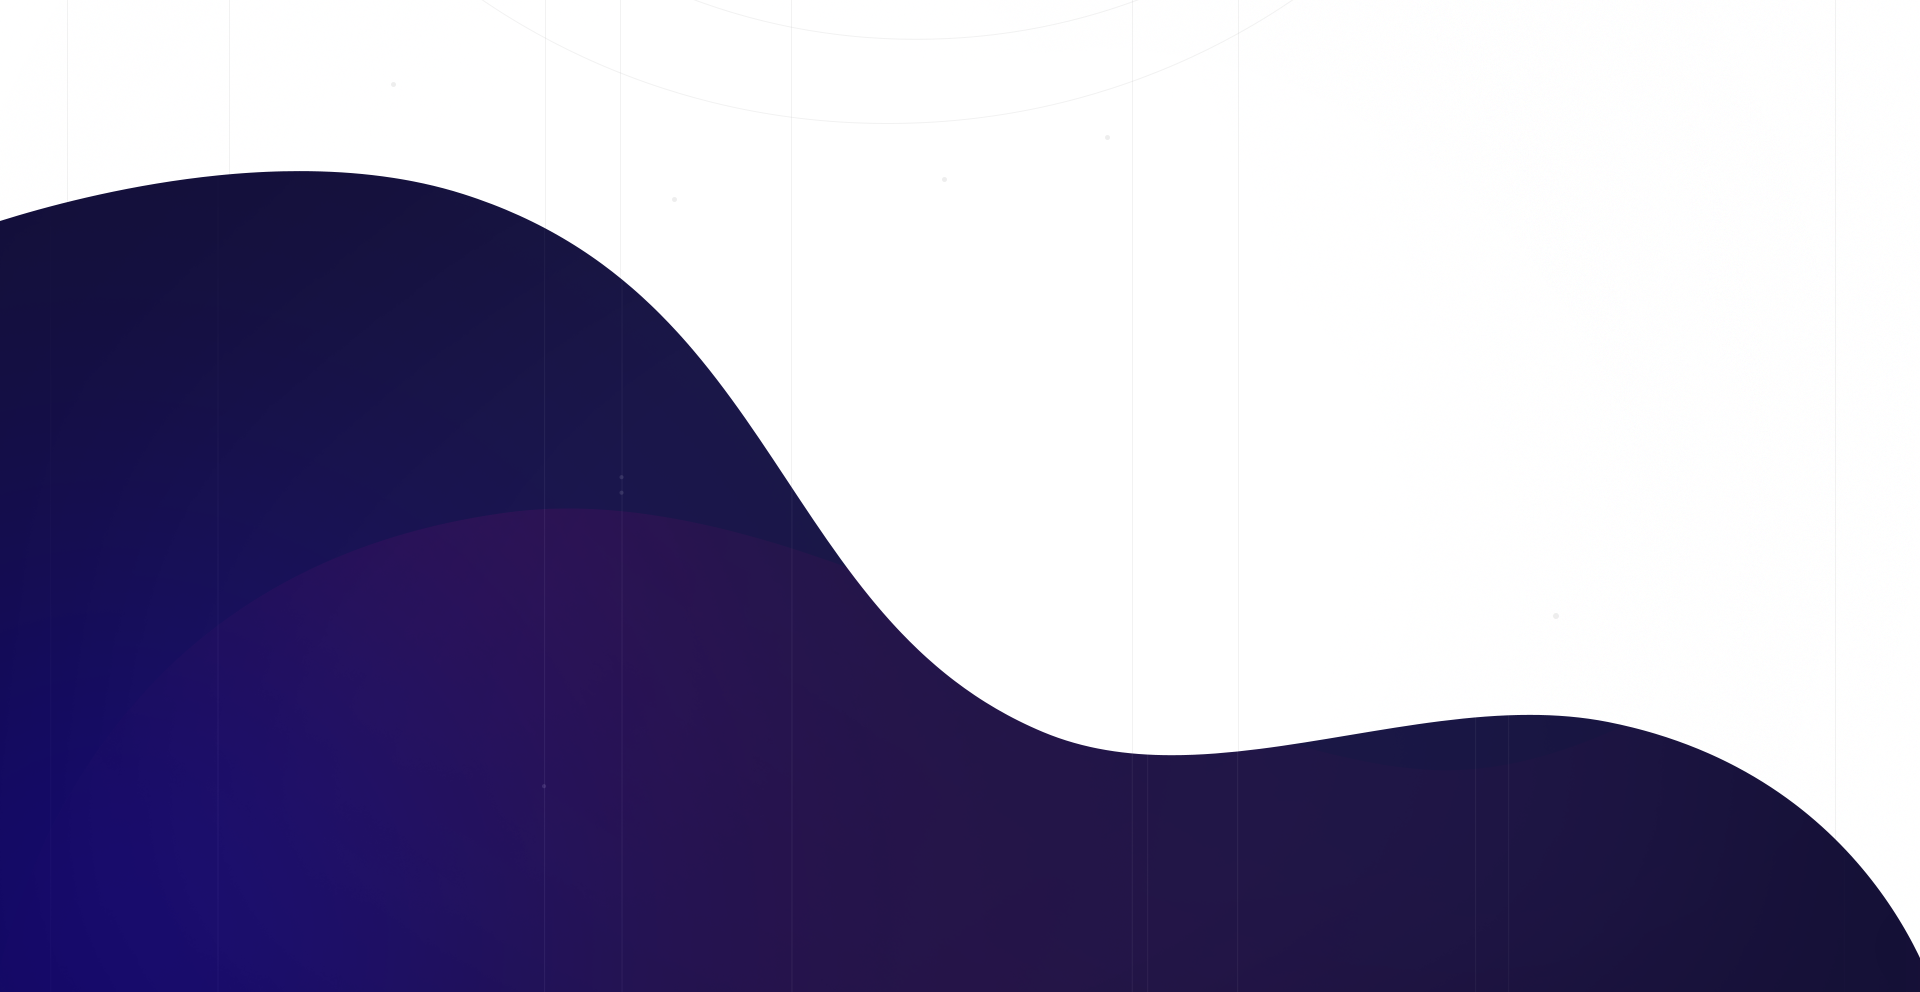
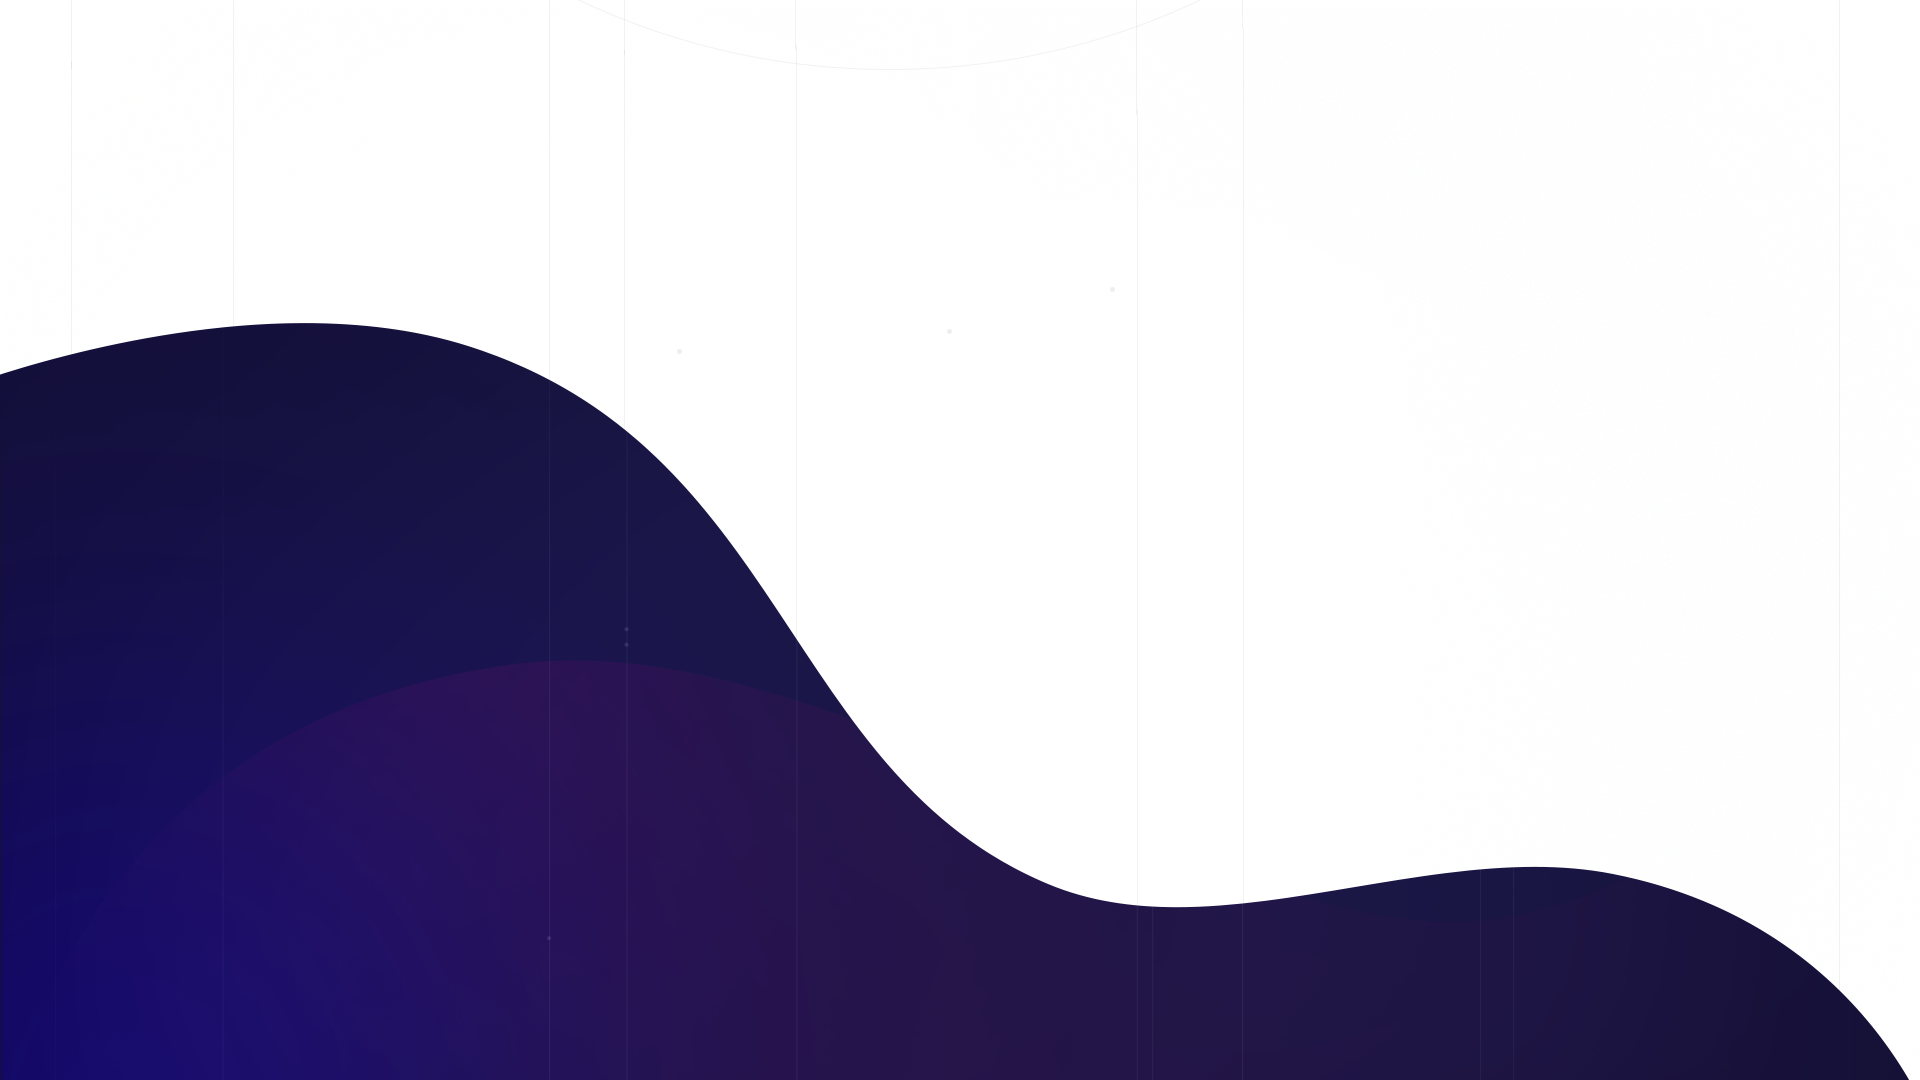
Add separate pictures

Changed region(s): [[0.0, 0.1562, 1.0, 1.0]]

diff --git a/src/App.jsx b/src/App.jsx
@@ -6,6 +6,9 @@ import { Mentor, Resident } from "./components/Forms";
 
 import { BrowserRouter as Router, Route } from "react-router-dom";
 import Sidebar from "./routes/Sidebar/Sidebar.jsx";
+import ReactPageScroller from "react-page-scroller";
+import "fullpage.js/vendors/scrolloverflow"; // Optional. When using scrollOverflow:true
+import ReactFullpage from "@fullpage/react-fullpage";
 
 const urls = {
   main: "main",
@@ -25,95 +28,95 @@ class App extends Component {
       currentPage: "main"
     };
   }
-  getCurrentPageName = () => {
-    const loc = window.location.pathname;
-    console.log(loc);
-    // if (this.getCurrentPageName() === "/") {
-    //   console.log(this.getSidebarData());
-    //   this.setState({ sidebarRows: this.getSidebarData() });
-    // }
-    let height = window.clientHeight;
-    let location = loc.replace(/\//g, "");
+  // getCurrentPageName = () => {
+  //   const loc = window.location.pathname;
+  //   console.log(loc);
+  //   // if (this.getCurrentPageName() === "/") {
+  //   //   console.log(this.getSidebarData());
+  //   //   this.setState({ sidebarRows: this.getSidebarData() });
+  //   // }
+  //   let height = window.clientHeight;
+  //   let location = loc.replace(/\//g, "");
 
-    this.setState({ sidebarRows: this.getSidebarData(loc) });
-    if (loc === "/") {
-      location = "/";
-      return "main";
-    }
-    return location;
-  };
-  setCurrentPage(page) {
-    if (this.state.currentPage !== page) {
-      console.log(page);
-      this.setState(state => ({
-        ...state,
-        currentPage: page,
-        sidebarRows: this.getSidebarData(page)
-      }));
-    }
-  }
-  handleScroll = () => {
-    function preventDefault(e) {
-      e = e || window.event;
-      if (e.preventDefault) e.preventDefault();
-      e.returnValue = false;
-    }
+  //   this.setState({ sidebarRows: this.getSidebarData(loc) });
+  //   if (loc === "/") {
+  //     location = "/";
+  //     return "main";
+  //   }
+  //   return location;
+  // };
+  // setCurrentPage(page) {
+  //   if (this.state.currentPage !== page) {
+  //     console.log(page);
+  //     this.setState(state => ({
+  //       ...state,
+  //       currentPage: page,
+  //       sidebarRows: this.getSidebarData(page)
+  //     }));
+  //   }
+  // }
+  // handleScroll = () => {
+  //   function preventDefault(e) {
+  //     e = e || window.event;
+  //     if (e.preventDefault) e.preventDefault();
+  //     e.returnValue = false;
+  //   }
 
-    let lastScrollY = window.scrollY;
-    let clientHeight = document.body.clientHeight;
+  //   let lastScrollY = window.scrollY;
+  //   let clientHeight = document.body.clientHeight;
 
-    // console.dir(clientHeight);
-    // console.dir(lastScrollY);
-    // window.location.href = "#about";
-    let currentScroll = 0;
+  //   // console.dir(clientHeight);
+  //   // console.dir(lastScrollY);
+  //   // window.location.href = "#about";
+  //   let currentScroll = 0;
 
-    // if(currentScroll < lastScrollY){
-    //   currentScroll = 940;
-    //   window.scroll(0, 940);
-    // }
-    // if(currentScroll )
+  //   // if(currentScroll < lastScrollY){
+  //   //   currentScroll = 940;
+  //   //   window.scroll(0, 940);
+  //   // }
+  //   // if(currentScroll )
 
-    // window.scroll(0, 0);
-    // if
-    // window.removeEventListener("scroll", this.handleScroll);
-    // window.removeEventListener('DOMMouseScroll', preventDefault, false);
-    let onePage = clientHeight / 7;
-    const startMainPage = 0;
-    const startAboutPage = onePage;
-    const startEduPage = onePage * 2;
-    const startBlog = onePage * 3;
-    const startFamily = onePage * 4;
-    const startStore = onePage * 5;
-    const startContacts = onePage * 6;
+  //   // window.scroll(0, 0);
+  //   // if
+  //   // window.removeEventListener("scroll", this.handleScroll);
+  //   // window.removeEventListener('DOMMouseScroll', preventDefault, false);
+  //   let onePage = clientHeight / 7;
+  //   const startMainPage = 0;
+  //   const startAboutPage = onePage;
+  //   const startEduPage = onePage * 2;
+  //   const startBlog = onePage * 3;
+  //   const startFamily = onePage * 4;
+  //   const startStore = onePage * 5;
+  //   const startContacts = onePage * 6;
 
-    if (startMainPage <= lastScrollY && lastScrollY <= startAboutPage) {
-      this.setCurrentPage("main");
-    } else if (startAboutPage <= lastScrollY && lastScrollY <= startEduPage) {
-      this.setCurrentPage("about");
-    } else if (startEduPage <= lastScrollY && lastScrollY <= startBlog) {
-      this.setCurrentPage("edu");
-    } else if (startBlog <= lastScrollY && lastScrollY <= startFamily) {
-      this.setCurrentPage("blog");
-    } else if (startFamily <= lastScrollY && lastScrollY <= startStore) {
-      this.setCurrentPage("family");
-    } else if (startStore <= lastScrollY && lastScrollY <= startContacts) {
-      this.setCurrentPage("store");
-    } else if (startContacts === lastScrollY) {
-      this.setCurrentPage("contacts");
-    } else {
-      console.log(lastScrollY);
-    }
-    // if(lastScrollY <= 1080){
-    //   this.setState({page: "nextPage"});
-    // }
-  };
-  componentDidMount() {
-    window.addEventListener("scroll", this.handleScroll);
-  }
+  //   if (startMainPage <= lastScrollY && lastScrollY <= startAboutPage) {
+  //     this.setCurrentPage("main");
+  //   } else if (startAboutPage <= lastScrollY && lastScrollY <= startEduPage) {
+  //     this.setCurrentPage("about");
+  //   } else if (startEduPage <= lastScrollY && lastScrollY <= startBlog) {
+  //     this.setCurrentPage("edu");
+  //   } else if (startBlog <= lastScrollY && lastScrollY <= startFamily) {
+  //     this.setCurrentPage("blog");
+  //   } else if (startFamily <= lastScrollY && lastScrollY <= startStore) {
+  //     this.setCurrentPage("family");
+  //   } else if (startStore <= lastScrollY && lastScrollY <= startContacts) {
+  //     this.setCurrentPage("store");
+  //   } else if (startContacts === lastScrollY) {
+  //     this.setCurrentPage("contacts");
+  //   } else {
+  //     console.log(lastScrollY);
+  //   }
+  //   // if(lastScrollY <= 1080){
+  //   //   this.setState({page: "nextPage"});
+  //   // }
+  // };
+  // componentDidMount() {
+  //   window.addEventListener("scroll", this.handleScroll);
+  // }
 
-  componentWillUnmount() {
-    window.removeEventListener("scroll", this.handleScroll);
-  }
+  // componentWillUnmount() {
+  //   window.removeEventListener("scroll", this.handleScroll);
+  // }
   // shouldComponentUpdate(prevProps, prevState) {
   //   if (
   //     JSON.stringify(prevState.sidebarRows) !==
@@ -127,63 +130,58 @@ class App extends Component {
   getSidebarData = type => {
     switch (type) {
       case urls.main:
-        return [
-          {
+        return [{
             title: "Стать ментором",
             link: "/mentor/form/"
-          },
-          {
+          },{
             title: "Стать резидентом",
             link: "/resident/form/"
-          }
-        ];
+          }];
       case urls.store:
-        return [
-          {
+        return [{
             title: "SIZE S M L XL"
-          },
-          {
+          },{
             title: "BUY: 600UAH"
-          }
-        ];
+          }];
       case urls.contacts:
-        return [
-          {
+        return [{
             title: "+380 73 139 57 87"
-          },
-          {
+          },{
             title: "info@atomspace.od.ua"
-          },
-          {
+          },{
             title: "г. Одесса, Обсерваторный переулок, 2/6"
-          }
-        ];
+          }];
       default:
         return [];
     }
   };
-
+  goToPage = (pageNumber) => {
+    this.reactPageScroller.goToPage(pageNumber);
+  }
   render() {
     return (
-      <Router>
-        <div className="container">
-          <Sidebar
-            sidebarRows={this.state.sidebarRows}
-            pageName={this.state.currentPage}
-          />
-          <div className="components">
-            <Main />
-            <About />
-            <Edu />
-            <Blog />
-            <Family />
-            {/* <Mentor/> */}
-            {/* <Resident/> */}
-            <Store />
-            <Contacts />
-          </div>
-        </div>
-      </Router>
+      <div className="container">
+        <Sidebar
+          sidebarRows={this.state.sidebarRows}
+          pageName={this.state.currentPage}
+        />
+
+        <ReactPageScroller
+          ref={c => this.reactPageScroller = c}>
+              {/* <div className="components"> */}
+                <Main />
+                <About />
+                <Edu />
+                <Blog />
+                <Family />
+                {/* <Mentor/> */}
+                {/* <Resident/> */}
+                <Store />
+                <Contacts />
+              {/* </div> */}
+        </ReactPageScroller>  
+        
+      </div>
     );
   }
 }

diff --git a/src/assets/styles/_main.scss b/src/assets/styles/_main.scss
@@ -28,15 +28,16 @@ a {
   }
 }
 .container {
-  background: url("../images/backgrounds/Template.png") no-repeat;
-  height: calc(100vh * 7);
-  background-size: 100vw calc(100vh * 7);
-  .components {
-    > div {
-      height: 100vh;
-    }
+  // background: url("../images/backgrounds/Template.png") no-repeat;
+  // height: calc(100vh * 7);
+  // background-size: 100vw calc(100vh * 7);
+  // .components {
+    // // > div {
+    //   height: 100vh;
+    // }
     .main-container {
-      height: 100vh;
+      // height: 100vh;
+      // background: url("../images/backgrounds/1.png") no-repeat;
     }
-  }
+  // }
 }

diff --git a/src/assets/styles/pages/containers.scss b/src/assets/styles/pages/containers.scss
@@ -2,7 +2,9 @@ $containers: about blog edu family main store contacts;
 
 @each $name in $containers {
   .#{$name}-container {
-    // background: url(../images/backgrounds/background-#{$name}.png) center/cover;
-    // height: 100vh;
+    background: url(../images/backgrounds/background-#{$name}.png) center/cover;
+    height: 100vh;
+    background-size: cover;
+    background-position: center;
   }
 }

diff --git a/src/assets/styles/_index.scss b/src/assets/styles/_index.scss
@@ -13,12 +13,15 @@
 @import "buttons.scss";
 
 @import "pages/containers.scss";
+
 @import "pages/main.scss";
 @import "pages/about.scss";
 @import "pages/edu.scss";
 @import "pages/blog.scss";
 @import "pages/family.scss";
 @import "pages/store.scss";
+@import "pages/contacts.scss";
+
 @import "animations.scss";
 
 @import "bubble.scss";

diff --git a/src/assets/styles/pages/contacts.scss b/src/assets/styles/pages/contacts.scss
@@ -1,6 +1,6 @@
-.store-container{
+.contacts-container{
     // height: 100vh;
-    // background: url("../images/backgrounds/6.png") no-repeat;
+    // background: url("../images/backgrounds/7.png") no-repeat;
     // background-size: cover;
     // background-position: center;
 }

diff --git a/src/assets/styles/pages/edu.scss b/src/assets/styles/pages/edu.scss
@@ -6,6 +6,8 @@ $left-gradient-color: rgb(212, 163, 74);
   align-items: center;
   padding-right:$f400 + $f110;
   padding-left: $f233;
+  // height: 100vh;
+  // background: url("../images/backgrounds/3.png") no-repeat;
   .edu-items {
     width: 100%;
     display: flex;

diff --git a/src/assets/styles/pages/blog.scss b/src/assets/styles/pages/blog.scss
@@ -1,6 +1,8 @@
 .blog-container {
   display: flex;
   justify-content: center;
+  // height: 100vh;
+  // background: url("../images/backgrounds/4.png") no-repeat;
   .blog-wrapper {
     width: $f610 + $f178 + $f34;
     display: flex;

diff --git a/src/assets/styles/pages/family.scss b/src/assets/styles/pages/family.scss
@@ -1,4 +1,6 @@
 .family-container{
+    // height: 100vh;
+    // background: url("../images/backgrounds/5.png") no-repeat;
     .family-wrapper{
         .carousel-container{
             .slick-slider{

diff --git a/src/assets/styles/pages/about.scss b/src/assets/styles/pages/about.scss
@@ -1,4 +1,6 @@
 .about-container {
+  // height: 100vh;
+  // background: url("../images/backgrounds/2.png") no-repeat;
   .about-blocks{
     height: 100%;
     .about-maintext-block {
